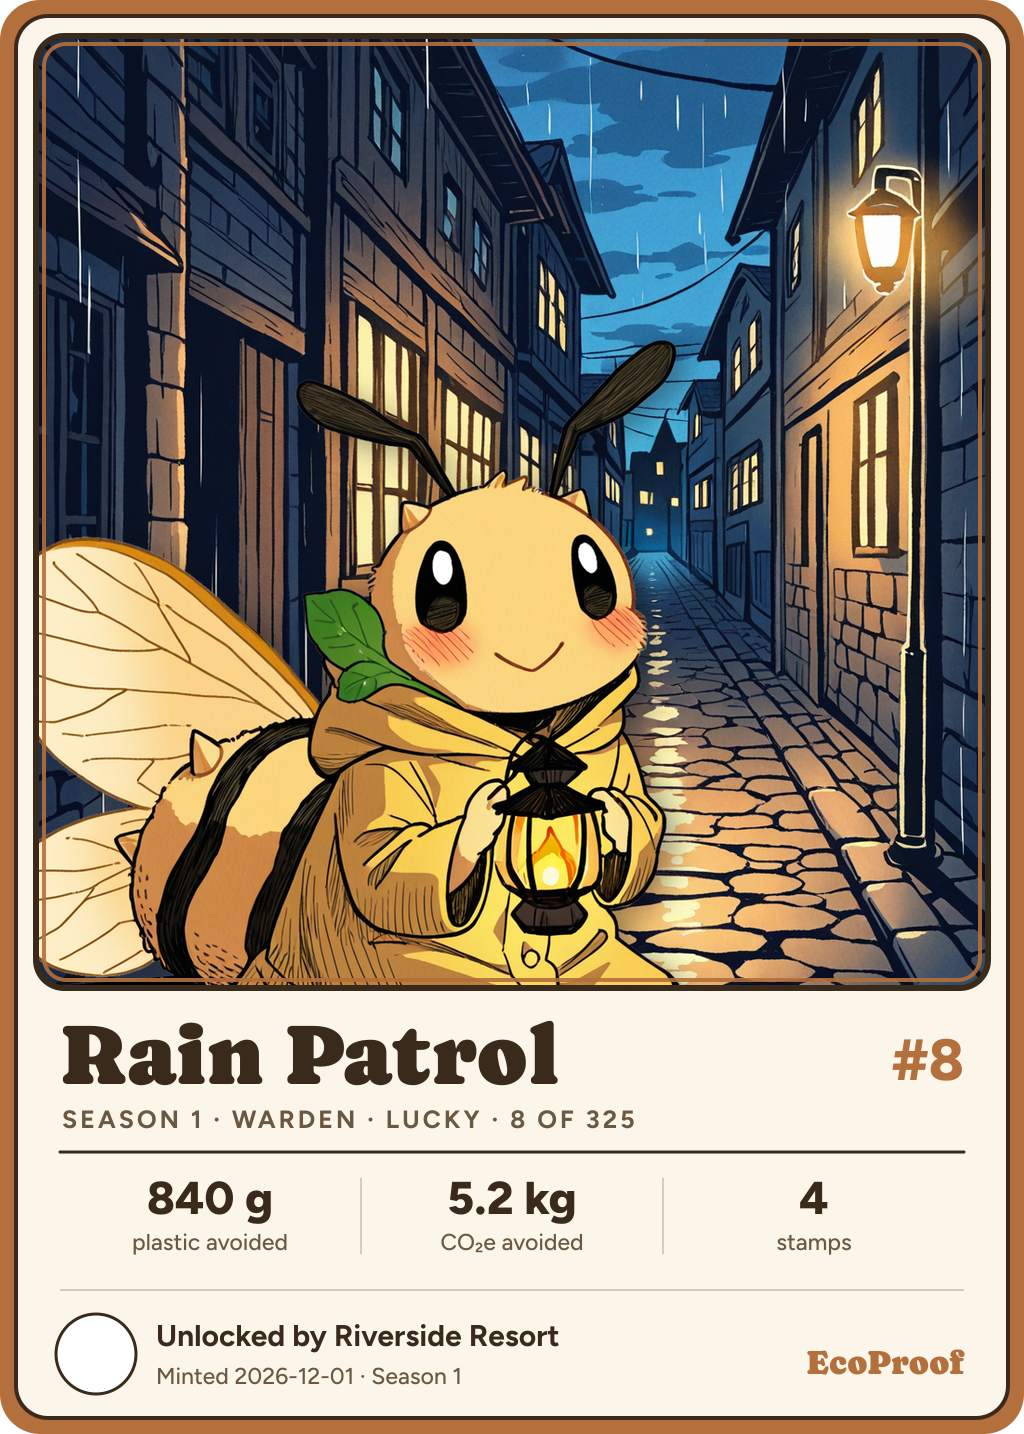
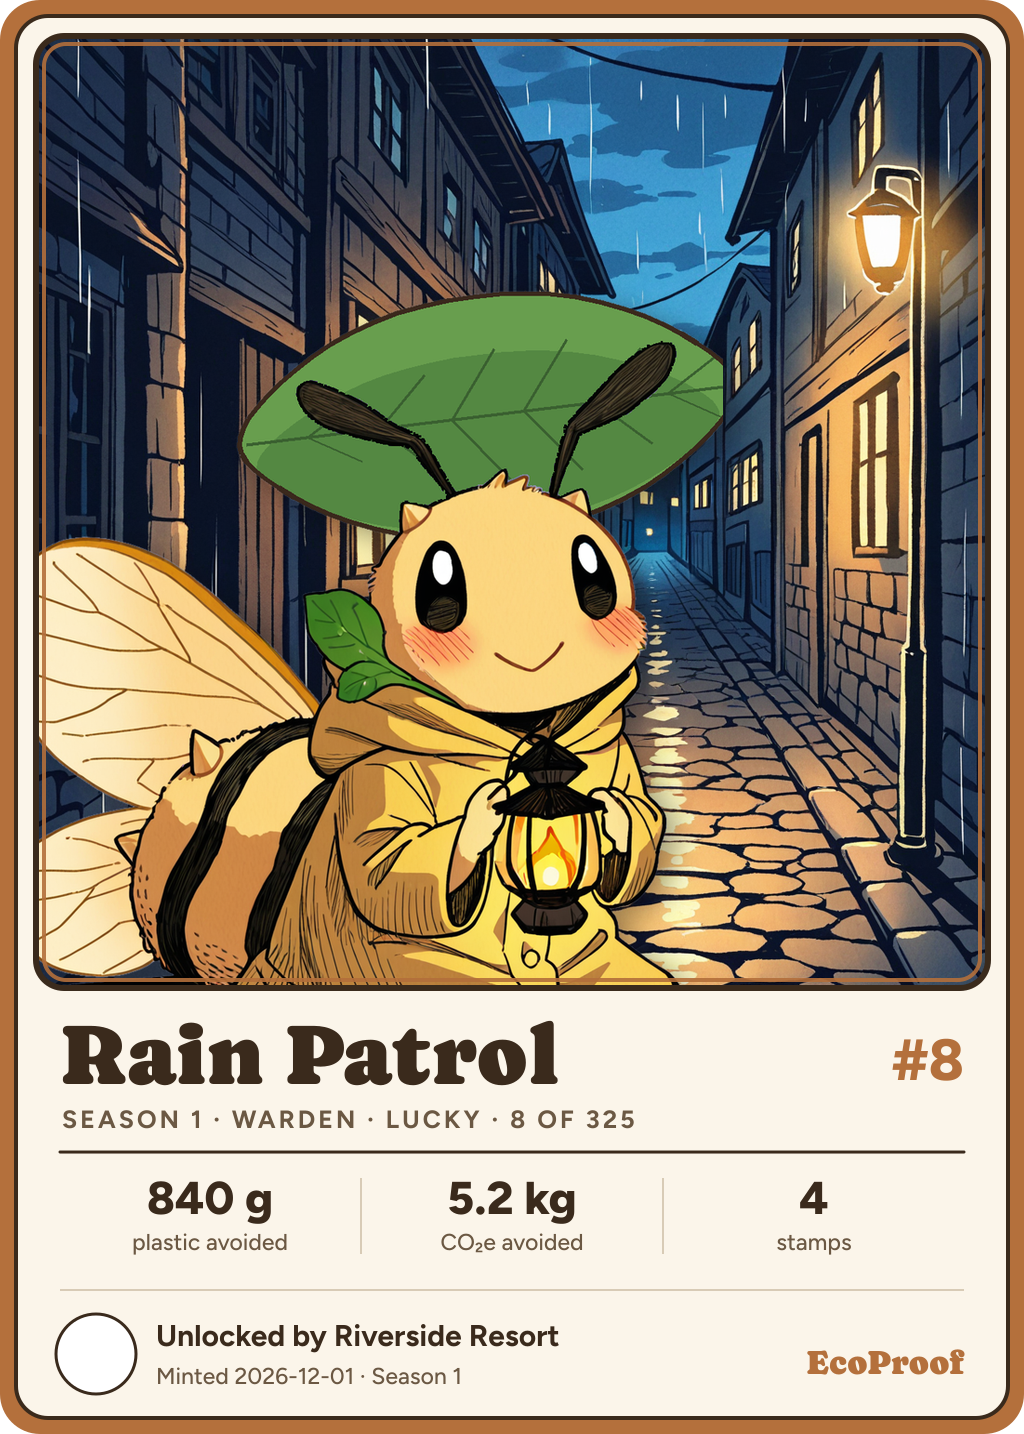
Season 1 art test: clear bottle, wrench and toolbox, leaf umbrella, seedling
Claude-Session: https://claude.ai/code/session_01HWHP3iugw8gkvvKKS5vpBj

Changed region(s): [[0.2188, 0.1841, 0.7188, 0.3989]]

diff --git a/art/season1/props.py b/art/season1/props.py
@@ -1,0 +1,89 @@
+#!/usr/bin/env python3
+"""Season 1, props drawn by hand where painting them in (fix.py) failed: the clear glass of Refill Round's bottle, Hive Workshop's
+toolbox merged with its wrench, Rain Patrol's leaf umbrella, Clean Shore's net of collected bottles, Old Oak's seedling.
+Run with the WebUI venv python: props.py → <card>_bee_prop.png for each of the five (sources are named in the code)."""
+import pathlib, math, random, importlib.util
+import numpy as np, cv2
+from PIL import Image, ImageDraw, ImageFilter
+D = pathlib.Path(__file__).parent; INK = (58, 40, 28, 255)
+def hsv_of(im): return cv2.cvtColor(np.asarray(im.convert("RGB")), cv2.COLOR_RGB2HSV)
+def bg_mask(im):   # the flat dusty blue background (OpenCV hue 0..179)
+    h = hsv_of(im); return ((np.abs(h[..., 0].astype(int) - 114) < 16) & (h[..., 1] > 25)).astype(np.uint8)
+
+def refill():      # the dark fill of the bottle becomes pale glass; a rim of the dark stays as its outline
+    im = Image.open(D/"w_refill_fix_94001.png").convert("RGB"); a = np.asarray(im).copy(); h = hsv_of(im)
+    poly = np.zeros(a.shape[:2], np.uint8); cv2.fillPoly(poly, [np.int32([(442, 602), (525, 602), (602, 973), (576, 1024), (397, 1024), (384, 973), (435, 768)])], 1)
+    dark = ((h[..., 2] < 95) & (poly > 0)).astype(np.uint8); inner = cv2.erode(dark, np.ones((13, 13), np.uint8)); inner = cv2.dilate(inner, np.ones((5, 5), np.uint8)) & dark
+    glass = np.array((214, 229, 232)); yy = np.linspace(0, 1, a.shape[0])[:, None, None]
+    a = np.where(inner[..., None] > 0, (glass - 14*yy).astype(np.uint8), a)
+    Image.fromarray(a.astype(np.uint8)).save(D/"refill_round_bee_prop.png")
+
+def hive():        # wrench from one repair, toolbox from another
+    w = Image.open(D/"w_hive_fix_94003.png").convert("RGB"); b = Image.open(D/"w_hivebox_fix_94002.png").convert("RGB")
+    m = Image.new("L", w.size, 0); ImageDraw.Draw(m).rectangle((40, 760, 330, 1024), fill=255)
+    w.paste(b, (0, 0), m.filter(ImageFilter.GaussianBlur(3))); w.save(D/"hive_workshop_bee_prop.png")
+
+def leaf_shape(cx, cy, rx, ry, rot, n=60):   # a broad leaf: pointed at both ends of its long axis
+    pts = []
+    for i in range(n):
+        t = 2*math.pi*i/n; x = rx*math.cos(t); y = ry*math.sin(t)*(1 - 0.35*abs(math.cos(t))**3)
+        pts.append((cx + x*math.cos(rot) - y*math.sin(rot), cy + x*math.sin(rot) + y*math.cos(rot)))
+    return pts
+def rain():        # a big leaf over the head, behind the bee, its stem tucked in at the shoulder
+    im = Image.open(D/"rain_patrol_bee_d72_81003.png").convert("RGB"); bg = bg_mask(im)
+    L = Image.new("RGBA", im.size, (0, 0, 0, 0)); d = ImageDraw.Draw(L); cx, cy, rx, ry, rot = 700, 235, 345, 165, math.radians(-7)
+    stem = [(540, 610), (560, 470), (620, 330), (cx, cy)]
+    d.line(stem, fill=INK, width=20, joint="curve"); d.line(stem, fill=(104, 150, 74, 255), width=11, joint="curve")
+    pts = leaf_shape(cx, cy, rx, ry, rot); d.polygon(pts, fill=(104, 158, 78, 255)); d.line(pts + pts[:1], fill=INK, width=7, joint="curve")
+    lo = leaf_shape(cx, cy + 34, rx*0.93, ry*0.72, rot); m2 = Image.new("L", im.size, 0); ImageDraw.Draw(m2).polygon(lo, fill=255)   # darker underside towards the bee
+    m1 = Image.new("L", im.size, 0); ImageDraw.Draw(m1).polygon(pts, fill=255)
+    L.paste((84, 136, 66, 255), (0, 0), Image.fromarray((np.asarray(m1)//255*np.asarray(m2)).astype(np.uint8)))
+    d = ImageDraw.Draw(L); ax = (math.cos(rot), math.sin(rot)); p = lambda u, v: (cx + u*ax[0] - v*ax[1], cy + u*ax[1] + v*ax[0])
+    d.line([p(-rx + 10, 0), p(rx - 10, 0)], fill=(58, 96, 48, 255), width=5)
+    for u in range(-250, 251, 100):
+        for s in (-1, 1): d.line([p(u, 0), p(u + 70, s*ry*0.62*(1 - abs(u)/420))], fill=(58, 96, 48, 255), width=3)
+    d.line(pts + pts[:1], fill=INK, width=7, joint="curve")
+    a = np.asarray(L).copy(); a[..., 3] = a[..., 3]*cv2.erode(bg, np.ones((3, 3), np.uint8))          # only where the background shows: behind the bee
+    out = im.convert("RGBA"); out.alpha_composite(Image.fromarray(a)); out.convert("RGB").save(D/"rain_patrol_bee_prop.png")
+
+def shore():       # the cream sack in the net becomes collected glass bottles, the net drawn over them
+    im = Image.open(D/"clean_shore_bee_d64_71002.png").convert("RGB"); h = hsv_of(im)
+    reg = np.zeros(h.shape[:2], np.uint8); reg[380:1024, 20:400] = 1
+    sack = ((h[..., 1] < 75) & (h[..., 2] > 185) & (reg > 0)).astype(np.uint8); sack = cv2.morphologyEx(sack, cv2.MORPH_CLOSE, np.ones((9, 9), np.uint8))
+    n, lab, st, _ = cv2.connectedComponentsWithStats(sack, 4); keep = [i for i in range(1, n) if st[i, cv2.CC_STAT_AREA] > 3000]; sack = np.isin(lab, keep).astype(np.uint8)
+    sack = cv2.morphologyEx(sack, cv2.MORPH_CLOSE, np.ones((31, 31), np.uint8)); cnt, _ = cv2.findContours(sack, cv2.RETR_EXTERNAL, cv2.CHAIN_APPROX_SIMPLE); cv2.drawContours(sack, cnt, -1, 1, -1)
+    hand = ((h[..., 1] > 110) & (h[..., 0] > 12) & (h[..., 0] < 40)) | (h[..., 2] < 70)                 # never over the thumb, the arm or any ink
+    sack = cv2.medianBlur(sack*255, 21)//255; sack[cv2.dilate(hand.astype(np.uint8), np.ones((5, 5), np.uint8)) > 0] = 0
+    sack = cv2.morphologyEx(sack, cv2.MORPH_OPEN, np.ones((15, 15), np.uint8)); inner = sack
+    L = Image.new("RGBA", im.size, (232, 222, 196, 255)); d = ImageDraw.Draw(L); rnd = random.Random(5)
+    cols = [(112, 164, 116), (120, 168, 204), (196, 146, 76), (150, 190, 170), (104, 150, 188)]
+    def bottle(cx, cy, ang, col, s=1.0):
+        B = Image.new("RGBA", (120, 260), (0, 0, 0, 0)); b = ImageDraw.Draw(B)
+        b.rounded_rectangle((20, 80, 100, 250), 22, fill=col + (255,), outline=INK, width=5); b.polygon([(34, 86), (48, 30), (72, 30), (86, 86)], fill=col + (255,))
+        b.line([(34, 86), (48, 30), (72, 30), (86, 86)], fill=INK, width=5, joint="curve"); b.rectangle((44, 12, 76, 32), fill=tuple(int(c*0.8) for c in col) + (255,), outline=INK, width=4)
+        b.line([(38, 110), (38, 215)], fill=(255, 255, 255, 150), width=8)
+        B = B.resize((int(120*s), int(260*s)), Image.LANCZOS).rotate(ang, resample=Image.BICUBIC, expand=True); L.alpha_composite(B, (int(cx - B.width/2), int(cy - B.height/2)))
+    for i, (cx, cy) in enumerate([(95, 470), (215, 455), (80, 650), (200, 690), (120, 860), (260, 880), (330, 760), (60, 990), (220, 1010)]):
+        bottle(cx, cy, rnd.uniform(-70, 70), cols[i % len(cols)], rnd.uniform(0.85, 1.05))
+    d = ImageDraw.Draw(L)
+    for k in range(-1024, 1024, 52):                                                                   # the net: two sets of diagonal cords
+        d.line([(k, 0), (k + 1024, 1024)], fill=(140, 98, 56, 255), width=4); d.line([(k + 1024, 0), (k, 1024)], fill=(140, 98, 56, 255), width=4)
+    a = np.asarray(L).copy(); a[..., 3] = inner*255
+    out = im.convert("RGBA"); out.alpha_composite(Image.fromarray(a).filter(ImageFilter.GaussianBlur(0.5)))
+    edge = cv2.morphologyEx(inner, cv2.MORPH_GRADIENT, np.ones((5, 5), np.uint8)); e = np.zeros(a.shape, np.uint8); e[edge > 0] = INK; out.alpha_composite(Image.fromarray(e)); out.convert("RGB").save(D/"clean_shore_bee_prop.png")
+
+def oak():         # a small hand out of the cloak, holding a seedling in a clay pot
+    im = Image.open(D/"old_oak_bee_d64_71002.png").convert("RGBA"); d = ImageDraw.Draw(im); x, y = 300, 730
+    Y = (252, 214, 110, 255); POT = (190, 108, 66, 255)
+    d.line([(x + 20, y - 70), (x + 16, y - 150)], fill=INK, width=12); d.line([(x + 20, y - 70), (x + 16, y - 150)], fill=(104, 150, 74, 255), width=6)   # stem
+    for s in (-1, 1):                                                                                   # two leaves
+        pts = leaf_shape(x + 16 + s*44, y - 168 - 6, 46, 24, math.radians(-s*28)); d.polygon(pts, fill=(112, 166, 80, 255)); d.line(pts + pts[:1], fill=INK, width=5, joint="curve")
+        d.line([(x + 16, y - 150), (x + 16 + s*78, y - 190)], fill=(58, 96, 48, 255), width=3)
+    d.polygon([(x - 34, y - 78), (x + 74, y - 78), (x + 60, y + 6), (x - 20, y + 6)], fill=POT); d.line([(x - 34, y - 78), (x + 74, y - 78), (x + 60, y + 6), (x - 20, y + 6), (x - 34, y - 78)], fill=INK, width=6, joint="curve")
+    d.rounded_rectangle((x - 42, y - 96, x + 82, y - 70), 8, fill=(206, 124, 78, 255), outline=INK, width=6)
+    d.ellipse((x + 40, y - 30, x + 150, y + 60), fill=(40, 30, 24, 255))                                # fuzzy dark wrist coming out of the cloak
+    d.ellipse((x - 46, y - 26, x + 100, y + 66), fill=Y, outline=INK, width=6)                           # the hand cupping the pot
+    for fx in (x - 2, x + 28, x + 58): d.arc((fx - 16, y - 40, fx + 16, y + 14), 20, 160, fill=INK, width=5)   # finger tips over the pot's foot
+    im.convert("RGB").save(D/"old_oak_bee_prop.png")
+
+for f in (refill, hive, rain, oak): f(); print(f.__name__)   # shore(): the net mask still comes out ragged, not used yet

diff --git a/art/season1/compose.py b/art/season1/compose.py
@@ -12,11 +12,11 @@ PICKS = {  # card: bee render, scene, size of the bee (1 = full width), x of its
  # the render drew the antenna tips cream: darkened to the Sentinel's own brown-black
  "first_trail": dict(bee="first_trail_bee_d68_66001.png", scene="first_trail_scene_63004.png", scale=0.78, x=235, dark=[(370, 120, 610, 260), (790, 120, 1010, 260)]),
  "first_proof": dict(bee="first_proof_bee_d70_67002.png", scene="first_proof_scene_68002.png", scale=0.82, x=-150),
- "refill_round": dict(bee="refill_round_bee_d78_71001.png", scene="refill_round_scene_72002.png", scale=0.78, x=-90),
- "rain_patrol": dict(bee="rain_patrol_bee_d72_81003.png", scene="rain_patrol_scene_72003.png", scale=0.78, x=-60),
+ "refill_round": dict(bee="refill_round_bee_prop.png", scene="refill_round_scene_72002.png", scale=0.78, x=-90),
+ "rain_patrol": dict(bee="rain_patrol_bee_prop.png", scene="rain_patrol_scene_72003.png", scale=0.78, x=-60),
  "four_corners": dict(bee="four_corners_bee_map.png", scene="four_corners_scene_72003.png", scale=0.78, x=-10),
  "wrap_it": dict(bee="wrap_it_bee_d64_71005.png", scene="wrap_it_scene_72003.png", scale=0.78, x=-80),
- "hive_workshop": dict(bee="hive_workshop_bee_d78_71003.png", scene="hive_workshop_scene_72003.png", scale=0.78, x=-60),
+ "hive_workshop": dict(bee="hive_workshop_bee_prop.png", scene="hive_workshop_scene_72003.png", scale=0.78, x=-60),
  "night_watch": dict(bee="night_watch_bee_d78_71004.png", scene="night_watch_scene_72002.png", scale=0.78, x=-40),
  "river_crossing": dict(bee="river_crossing_bee_grip.png", scene="river_crossing_scene_83001.png", scale=0.76, x=200),
  "kilo_keeper": dict(bee="kilo_keeper_bee_d64_71005.png", scene="kilo_keeper_scene_72003.png", scale=0.76, x=-110),
@@ -27,7 +27,7 @@ PICKS = {  # card: bee render, scene, size of the bee (1 = full width), x of its
  "golden_hour": dict(bee="golden_hour_bee_d70_84003.png", scene="golden_hour_scene_72004.png", scale=0.78, x=-80),
  "great_hive": dict(bee="great_hive_bee_d70_84004.png", scene="great_hive_scene_72003.png", scale=0.8, x=110),
  "world_walker": dict(bee="world_walker_bee_d74_81003.png", scene="world_walker_land_scene_83003.png", scale=0.78, x=-90),
- "old_oak": dict(bee="old_oak_bee_d64_71002.png", scene="old_oak_scene_72003.png", scale=0.76, x=-110),
+ "old_oak": dict(bee="old_oak_bee_prop.png", scene="old_oak_scene_72003.png", scale=0.76, x=-110),
 }
 def key(im):
     """Alpha from hue: the background is the only blue-violet thing; holes inside the bee are filled, loose specks dropped."""

diff --git a/art/season1/fix.py b/art/season1/fix.py
@@ -1,7 +1,7 @@
 #!/usr/bin/env python3
 """Season 1 cards, repairs on a picked bee render before it is cut out: paint over a wrong part (A1111 inpainting, same checkpoint).
 Usage: fix.py <render.png> "<x,y x,y ...>" "<what should be there>" seed... → <render>_fix_<seed>.png  (polygon in 1024 px).
-DENOISE=0.6 in the environment keeps more of what is there (default 0.82), e.g. to close a hand around something already drawn."""
+DENOISE=0.6 in the environment keeps more of what is there (default 0.82), e.g. to close a hand around something already drawn. BG=1 limits the polygon to the blue background."""
 import base64, io, json, os, sys, pathlib, urllib.request
 import numpy as np, cv2
 from PIL import Image
@@ -9,6 +9,9 @@ D = pathlib.Path(__file__).parent
 CKPT = "sd/waiNSFWIllustrious_v150.safetensors [befc694a29]"
 src, poly, what, seeds = sys.argv[1], [tuple(int(v) for v in p.split(",")) for p in sys.argv[2].split()], sys.argv[3], sys.argv[4:]
 mask = np.zeros((1024, 1024), np.uint8); cv2.fillPoly(mask, [np.int32(poly)], 255)
+if os.environ.get("BG"):   # only the flat blue background inside the polygon: what is painted ends up behind the bee
+    hsv = np.asarray(Image.open(D/src).convert("RGB").convert("HSV")).astype(np.int32)
+    mask[~((np.abs(hsv[..., 0] - 161) < 22) & (hsv[..., 1] > 20))] = 0; mask = cv2.dilate(mask, np.ones((5, 5), np.uint8))
 b64 = lambda im: base64.b64encode((lambda b: (im.save(b, "PNG"), b.getvalue())[1])(io.BytesIO())).decode()
 for seed in seeds:
     req = urllib.request.Request("http://127.0.0.1:7860/sdapi/v1/img2img", headers={"Content-Type": "application/json"}, data=json.dumps({
